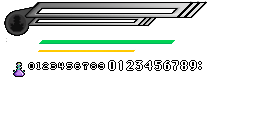
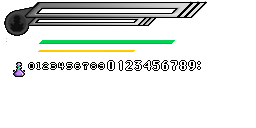
Modo contrarreloj. Contador funcional. Si se acaba el tiempo, muere.

Changed region(s): [[0.4062, 0.4688, 0.8125, 0.5625]]

diff --git a/Hud.cpp b/Hud.cpp
@@ -3,7 +3,7 @@
 
 namespace Crazy
 {
-    Hud::Hud(bool nDificultad, bool mContrarreloj)
+    Hud::Hud(bool mContrarreloj)
     {
         //Inicializar variables
         _juego = Juego::Instance();
@@ -21,7 +21,7 @@ namespace Crazy
 
         spriteTimerSeg = 0;
         spriteTimerSeg1 = 0;
-        spriteTimerMin = 36;
+        spriteTimerMin = 18;
 
         for(int i = 0; i < 5; i++)
         {
@@ -63,25 +63,25 @@ namespace Crazy
         {
             switch(i){
                 case 0:
-                    spContador[i].setTextureRect(sf::IntRect(106, 60, 9, 11));
+                    spContador[i].setTextureRect(sf::IntRect(107, 60, 9, 11));
                     spContador[i].CambiarOrigen(10/2, 12/2);
                     spContador[i].CambiarPosicion(contX-16, contY);
                     spContador[i].EscalarProporcion(1.5, 1.5);
                     break;
                 case 1:
-                    spContador[i].setTextureRect(sf::IntRect(154, 60, 9, 11));
+                    spContador[i].setTextureRect(sf::IntRect(134, 60, 9, 11));
                     spContador[i].CambiarOrigen(10/2, 12/2);
                     spContador[i].CambiarPosicion(contX, contY);
                     spContador[i].EscalarProporcion(1.5, 1.5);
                     break;
                 case 2:
-                    spContador[i].setTextureRect(sf::IntRect(198, 61, 4, 9));
+                    spContador[i].setTextureRect(sf::IntRect(197, 61, 4, 9));
                     spContador[i].CambiarOrigen(4/2, 10/2);
                     spContador[i].CambiarPosicion(contX+10, contY);
                     spContador[i].EscalarProporcion(1.5, 1.5);
                     break;
                 case 3:
-                    spContador[i].setTextureRect(sf::IntRect(106, 60, 9, 11));
+                    spContador[i].setTextureRect(sf::IntRect(107, 60, 9, 11));
                     spContador[i].CambiarOrigen(10/2, 12/2);
                     spContador[i].CambiarPosicion(contX+21, contY);
                     spContador[i].EscalarProporcion(1.5, 1.5);
@@ -94,6 +94,7 @@ namespace Crazy
                     break;
             }
         }
+        contador = 0;
     }
     
     void Hud::Dibujar()
@@ -130,20 +131,21 @@ namespace Crazy
             spriteTimerSeg = 81;
             if(spriteTimerSeg1 == 0){
                 spriteTimerSeg1 = 45;
-                spContador[1].setTextureRect(sf::IntRect(106 + spriteTimerMin, 60, 9, 11));
+                spContador[1].setTextureRect(sf::IntRect(107 + spriteTimerMin, 60, 9, 11));
                 spriteTimerMin -= 9;
             }
             else
             {
                 spriteTimerSeg1 -= 9;
             }
-            spContador[3].setTextureRect(sf::IntRect(106 + spriteTimerSeg1, 60, 9, 11));
+            spContador[3].setTextureRect(sf::IntRect(107 + spriteTimerSeg1, 60, 9, 11));
         }
         else
         {
             spriteTimerSeg -= 9;
         }
-        spContador[4].setTextureRect(sf::IntRect(106 + spriteTimerSeg, 60, 9, 11));
+        spContador[4].setTextureRect(sf::IntRect(107 + spriteTimerSeg, 60, 9, 11));
+        contador++;
     }
     
     void Hud::ModificarVida(float vida, float totalVida){
@@ -180,5 +182,8 @@ namespace Crazy
     
     bool Hud::GetAtaqueEspecial(){
         return ataqueEspecial;
+    }
+    int Hud::getContador(){
+        return contador;
     }
 }

diff --git a/EstadoJuego.cpp b/EstadoJuego.cpp
@@ -54,7 +54,7 @@ namespace Crazy
         lvl_n=1;
         _level->cargarNivel(lvl_n);
         _jugador = new Espadachina();
-        _hud = new Hud(normal, contrarreloj);
+        _hud = new Hud(contrarreloj);
         
         teclaPulsada = false;
         
@@ -221,7 +221,7 @@ namespace Crazy
     void EstadoJuego::Actualizar(float tiempoActual)
     {
         
-        if(_jugador->GetVida()<=0){
+        if(_jugador->GetVida()<=0 || _hud->getContador() >= 180){
             _juego->maquina.Anyadir(EstadoMuerte::Instance(), true);
         }
                 
@@ -247,6 +247,11 @@ namespace Crazy
             _hud->SetAtaqueEspecial(true);
         }else
             _hud->SetAtaqueEspecial(false);
+        if(contrarreloj && relojContrarreloj.GetSegundos()>=1)
+        {
+            _hud->CambiarTexturaContador();
+            relojContrarreloj.ReiniciarSegundos();
+        }
         
         
     }

diff --git a/Hud.hpp b/Hud.hpp
@@ -10,7 +10,7 @@ namespace Crazy
     class Hud
     {
     public:
-        Hud(bool nDificultar, bool mContrarreloj);
+        Hud(bool mContrarreloj);
         void Dibujar();
         void Parpadear(bool parpadeo);
         
@@ -21,6 +21,7 @@ namespace Crazy
         void ModoContrarreloj();
         void ElixirEncontrado(bool v);
         bool getElixir();
+        int getContador();
         void SetAtaqueEspecial(bool ataque);
         SpriteM GetSpriteRecipienteVida();
         bool GetAtaqueEspecial();
@@ -43,5 +44,6 @@ namespace Crazy
         int spriteTimerSeg;
         int spriteTimerSeg1;
         int spriteTimerMin;
+        int contador;
     };
 }

diff --git a/EstadoJuego.hpp b/EstadoJuego.hpp
@@ -30,9 +30,11 @@ namespace Crazy
         Reloj reloj;
         Reloj relojAtaqueEspecial;
         Reloj relojDesplazamiento; //separada la anim de aqui
+        Reloj relojContrarreloj;
         Reloj tiempo;
         Reloj tiempoAtaqueEspecial;
         Reloj tiempoDesplazamiento;
+        Reloj tiempoContrarreloj;
         
         bool inercia;
         int contador;
